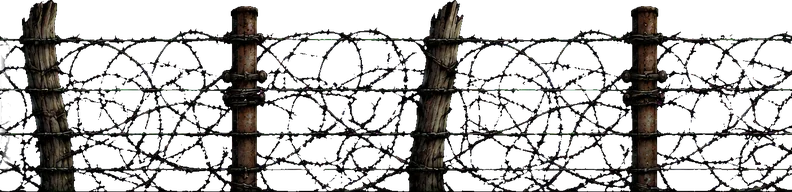
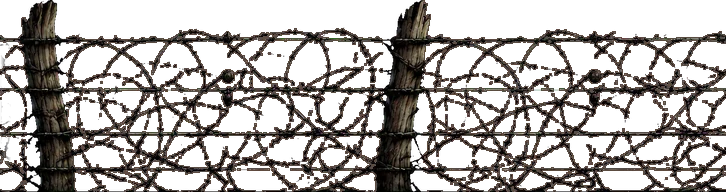
Gelände: Zickzack-Gräben mit Brustwehr zur Feindseite, Draht mit weniger Pfählen, Karte heller; Panzersperren und großer Trichter

diff --git a/entwurf/probe/gelaende_bau.js b/entwurf/probe/gelaende_bau.js
@@ -16,12 +16,13 @@ const load = src => new Promise(r => { const i = new Image(); i.onload = () => r
 const SQ3 = Math.sqrt(3);
 const LISTE = {
   tex: ['schlamm', 'gras', 'waldboden', 'truemmer', 'sumpf', 'wasser', 'kopfstein'].map(n => 'boden_' + n),
-  flach: [1, 2, 3, 4, 5, 6, 7, 8].map(k => 'flach_details_' + k),
+  flach: [...[1, 2, 3, 4, 5, 6, 7, 8].map(k => 'flach_details_' + k), 'trichter_gross_1'],
   wand: ['graben_sohle', 'graben_kante_vorn', 'graben_kante_hinten', 'ruine_hinten', 'ruine_vorn', 'draht', 'barrikade', 'wald_unterholz'],
   stand: [...[1, 2, 3, 4].map(k => 'ruine_ecken_' + k), 'bunker_1', 'bunker_2',
     ...['wald_staemme', 'wald_staemme_b'].flatMap(b => [1, 2, 3, 4].map(k => `${b}_${k}`)),
     ...['stuempfe', 'stuempfe_b', 'stuempfe_c'].flatMap(b => [1, 2, 3, 4].map(k => `${b}_${k}`)),
-    ...['truemmer', 'truemmer_b', 'truemmer_c', 'truemmer_d'].flatMap(b => [1, 2, 3, 4].map(k => `${b}_${k}`))],
+    ...['truemmer', 'truemmer_b', 'truemmer_c', 'truemmer_d'].flatMap(b => [1, 2, 3, 4].map(k => `${b}_${k}`)),
+    ...[1, 2, 3, 4].map(k => 'panzersperren_' + k), 'panzersperren_b_4'],   // panzersperren_b_1–3 sind gleich wie panzersperren_1–3
 };
 
 async function bauen(cfg) {
@@ -31,7 +32,7 @@ async function bauen(cfg) {
   await Promise.all([...LISTE.tex, ...LISTE.flach, ...LISTE.wand, ...LISTE.stand].map(async n => IM[n] = await load(`gelaende/g_${n}.webp`)));
   const FIG = {}; for (const s of ['konkordat', 'aschenwacht']) FIG[s] = await Promise.all([1, 2, 3, 4].map(i => load(`gelaende/fig_${s}_soldat_${i}.webp`)));
   const pool = pre => LISTE.stand.filter(n => n.startsWith(pre)).map(n => IM[n]);
-  const STAEMME = pool('wald_staemme'), STUEMPFE = pool('stuempfe'), TRUEMMER = pool('truemmer'), BUNKER = [IM.bunker_1, IM.bunker_2];
+  const SPERREN = pool('panzersperren'), STAEMME = pool('wald_staemme'), STUEMPFE = pool('stuempfe'), TRUEMMER = pool('truemmer'), BUNKER = [IM.bunker_1, IM.bunker_2];
 
   // ---------- Welt ----------
   const R = cfg.R || 120, SH = 0.8 * R, COLS = cfg.cols, ROWS = cfg.rows, MX = R * 1.4, TOP = R * 2.4, MB = R * 1.2;   // Ränder: Gelände läuft über die Karte hinaus
@@ -78,7 +79,7 @@ async function bauen(cfg) {
     const gr = w.createRadialGradient(x, y, 0, x, y, rr); gr.addColorStop(0, d ? 'rgba(10,7,5,0.2)' : 'rgba(150,130,100,0.08)'); gr.addColorStop(1, 'rgba(0,0,0,0)'); w.fillStyle = gr; w.fillRect(x - rr, y - rr, rr * 2, rr * 2); }
 
   // Boden insgesamt aufhellen: die gelieferten Texturen sind sehr dunkel (Helligkeit 0,08–0,17), Figuren sollen sich abheben (STYLE: Figuren eine Stufe heller als der Boden)
-  l.globalCompositeOperation = 'source-over'; l.clearRect(0, 0, WW, WH); l.filter = `brightness(${cfg.hell || 1.5}) saturate(0.95)`; l.drawImage(WCV, 0, 0); l.filter = 'none';
+  l.globalCompositeOperation = 'source-over'; l.clearRect(0, 0, WW, WH); l.filter = `brightness(${cfg.hell || 1.7}) contrast(${cfg.kontrast || 1.2}) saturate(0.95)`; l.drawImage(WCV, 0, 0); l.filter = 'none';
   w.clearRect(0, 0, WW, WH); w.drawImage(LY, 0, 0);
 
   // ---------- Linienzüge (Gräben, Straßen, Kanal) aus Feldern ----------
@@ -112,7 +113,7 @@ async function bauen(cfg) {
 
   // Straßen (Kopfstein) und Kanal (Wasser mit dunkler Uferkante)
   const ROADS = ketten((c, r) => flags(c, r).road && terr(c, r) !== 'canal').filter(ch => ch.length > 1).map(ch => chaikin(verlaengern(ch).pts, 2));
-  if (ROADS.length) { w.save(); w.filter = `blur(${R * 0.06}px)`; w.strokeStyle = 'rgba(30,22,15,0.5)'; strokeLines(w, ROADS, R * 0.78); w.restore(); schicht('boden_kopfstein', ctx => strokeLines(ctx, ROADS, R * 0.62), 0.05, 1, 7, (cfg.hell || 1.5) * 1.1); w.save(); w.globalCompositeOperation = 'soft-light'; w.filter = `blur(${R * 0.05}px)`; w.strokeStyle = 'rgba(255,240,210,0.35)'; strokeLines(w, ROADS, R * 0.5); w.restore(); }
+  if (ROADS.length) { w.save(); w.filter = `blur(${R * 0.06}px)`; w.strokeStyle = 'rgba(30,22,15,0.5)'; strokeLines(w, ROADS, R * 0.78); w.restore(); schicht('boden_kopfstein', ctx => strokeLines(ctx, ROADS, R * 0.62), 0.05, 1, 7, (cfg.hell || 1.7) * 1.05); w.save(); w.globalCompositeOperation = 'soft-light'; w.filter = `blur(${R * 0.05}px)`; w.strokeStyle = 'rgba(255,240,210,0.35)'; strokeLines(w, ROADS, R * 0.5); w.restore(); }
   const RIVERS = ketten((c, r) => flags(c, r).river || ['canal', 'bridge', 'furt'].includes(terr(c, r))).filter(ch => ch.length > 1).map(ch => chaikin(verlaengern(ch).pts, 2));
   if (RIVERS.length) {
     w.save(); w.filter = `blur(${R * 0.08}px)`; w.strokeStyle = 'rgba(28,21,14,0.95)'; strokeLines(w, RIVERS, R * 1.55); w.restore();
@@ -128,7 +129,7 @@ async function bauen(cfg) {
   const jit = (c, r, k, s) => { const [x, y] = hexC(c, r); return [x + (hrnd(c, r, k) - 0.5) * R * s, y + (hrnd(c, r, k + 1) - 0.5) * R * s * 0.9]; };
   for (let c = 0; c < COLS; c++) for (let r = 0; r < ROWS; r++) {
     const t = terr(c, r), q = hrnd(c, r, 9);
-    if (t === 'crater') { if (q < 0.55) flach(F(2), ...jit(c, r, 1, 0.3), 1.15 + q * 0.3, q * 20); else { flach(F(1), ...jit(c, r, 1, 0.9), 0.6, q * 9); flach(F(1), ...jit(c, r, 3, 0.9), 0.55, q * 13); } }
+    if (t === 'crater') { if (q < 0.55) flach(q < 0.28 ? IM.trichter_gross_1 : F(2), ...jit(c, r, 1, 0.3), 1.15 + q * 0.3, q * 20); else { flach(F(1), ...jit(c, r, 1, 0.9), 0.6, q * 9); flach(F(1), ...jit(c, r, 3, 0.9), 0.55, q * 13); } }
     else if (t === 'mud') { flach(F(q < 0.5 ? 3 : 4), ...jit(c, r, 1, 0.8), 0.7 + q * 0.4, q * 30); if (q > 0.3) flach(F(8), ...jit(c, r, 3, 0.6), 0.9, q * 17, 0.85); }
     else if (t === 'open' || t === 'grass') { if (q < 0.18) flach(F(1), ...jit(c, r, 1, 1), 0.55, q * 40); else if (q < 0.28) flach(F(8), ...jit(c, r, 1, 0.8), 0.9, q * 40, 0.8); else if (q < 0.34) flach(F(5), ...jit(c, r, 1, 0.8), 0.6, q * 40); else if (q < 0.42) flach(F(3), ...jit(c, r, 1, 0.9), 0.5, q * 40); }
     else if (t === 'village' || t === 'rubble') { flach(F(7), ...jit(c, r, 1, 0.6), 0.9, q * 30, 0.9); }
@@ -160,7 +161,7 @@ async function bauen(cfg) {
   const DRAW = [], SHADOW = [], UNITS = [];
   const hides = (x, y) => UNITS.some(([hx, hy]) => hy < y - R * 0.2 && y - hy < R * 1.95 && Math.abs(hx - x) < R * 1.0);
   function wall(im, A, B, hW, o = {}) {   // Wandstück: Bild steht über der Bodenlinie A→B, entlang der Linie gekachelt
-    const len = Math.hypot(B[0] - A[0], B[1] - A[1]), iwW = hW * im.width / im.height, n = Math.max(1, Math.ceil(len / (R * 0.25)));
+    const len = Math.hypot(B[0] - A[0], B[1] - A[1]), iwW = hW * im.width / im.height * (o.stretch || 1), n = Math.max(1, Math.ceil(len / (R * 0.25)));
     let u = o.u0 || 0;
     for (let i = 0; i < n; i++) {
       const a = [A[0] + (B[0] - A[0]) * i / n, A[1] + (B[1] - A[1]) * i / n], b = [A[0] + (B[0] - A[0]) * (i + 1) / n, A[1] + (B[1] - A[1]) * (i + 1) / n], du = len / n / iwW, u0 = u;
@@ -181,7 +182,8 @@ async function bauen(cfg) {
       const qa = [pa[0] + (pb[0] - pa[0]) * t0, pa[1] + (pb[1] - pa[1]) * t0], qb = [pa[0] + (pb[0] - pa[0]) * t1, pa[1] + (pb[1] - pa[1]) * t1], sw = (x1 - x0) * iw;
       if (sw < 0.5) continue;
       g.save(); g.setTransform((qb[0] - qa[0]) / sw, (qb[1] - qa[1]) / sw, -V[0] / ih, -V[1] / ih, qa[0] + V[0], qa[1] + V[1] + (o.sink || 0) * sc);
-      if (o.filter) g.filter = o.filter; if (hW > 0.6 * SH && hides((a[0] + b[0]) / 2, (a[1] + b[1]) / 2)) g.globalAlpha = 0.45;
+      const flt = typeof o.filter === 'function' ? o.filter(hS) : o.filter; if (flt) g.filter = flt; if (o.alpha) g.globalAlpha = typeof o.alpha === 'function' ? o.alpha(hS) : o.alpha;
+      if (hW > 0.6 * SH && hides((a[0] + b[0]) / 2, (a[1] + b[1]) / 2)) g.globalAlpha = 0.45;
       g.drawImage(im, x0 * iw, 0, Math.min(sw + 0.6, iw - x0 * iw), ih, 0, 0, Math.min(sw + 0.6, iw - x0 * iw), ih); g.restore();
     }
     if (cfg.punkte) { g.save(); g.strokeStyle = '#E2B04A'; g.lineWidth = 2 * U; g.beginPath(); g.moveTo(pa[0], pa[1]); g.lineTo(pb[0], pb[1]); g.stroke(); g.restore(); }
@@ -201,9 +203,23 @@ async function bauen(cfg) {
   const flipR = (c, r, k) => hrnd(c, r, k) < 0.5;
 
   // Graben
+  // Zickzack wie echte Gräben (Schulterwehren): der Zug wird alle ZZ_STEP neu gesetzt und abwechselnd um ±ZZ_A seitlich versetzt.
+  // Nur Darstellung innerhalb der Grabenfelder – die Regeln (welches Feld Graben ist) bleiben gleich.
+  const ZZ_A = R * 0.3, ZZ_STEP = R * 0.866;
+  function zickzack(pts) {
+    const segL = []; let L = 0; for (let i = 0; i < pts.length - 1; i++) { const d = Math.hypot(pts[i + 1][0] - pts[i][0], pts[i + 1][1] - pts[i][1]); segL.push(d); L += d; }
+    const n = Math.max(2, Math.round(L / ZZ_STEP)), out = [];
+    for (let j = 0; j <= n; j++) {
+      let s = L * j / n, i = 0; while (i < segL.length - 1 && s > segL[i]) { s -= segL[i]; i++; }
+      const a = pts[i], b = pts[i + 1], t = segL[i] ? s / segL[i] : 0, dx = (b[0] - a[0]) / (segL[i] || 1), dy = (b[1] - a[1]) / (segL[i] || 1);
+      const o = j === 0 || j === n ? 0 : (j % 2 ? ZZ_A : -ZZ_A);
+      out.push([a[0] + (b[0] - a[0]) * t - dy * o, a[1] + (b[1] - a[1]) * t + dx * o]);
+    }
+    return out;
+  }
   const TRENCH = cfg.trench ? cfg.trench.map(z => ({ pts: z.map(p => atW(...p)), ends: [false, false] }))
-    : ketten((c, r) => terr(c, r) === 'trench').filter(ch => ch.length > 1).map(verlaengern);
-  const TR = TRENCH.map(z => chaikin(z.pts));
+    : ketten((c, r) => terr(c, r) === 'trench').filter(ch => ch.length > 1).map(ch => { const v = verlaengern(ch); return { ...v, ch, pts: cfg.zickzack ? zickzack(v.pts) : v.pts }; });
+  const TR = TRENCH.map(z => chaikin(z.pts, cfg.zickzack && z.ch ? 1 : 3));
   if (TR.length) {
     const TW = 1.0 * R, SOHLE = IM.graben_sohle;
     w.save(); w.filter = `blur(${R * 0.08}px)`; w.strokeStyle = 'rgba(70,56,40,0.7)'; strokeLines(w, TR, R * 1.15); w.restore();
@@ -235,13 +251,21 @@ async function bauen(cfg) {
     TR.forEach((pts, ti) => {
       for (const side of [-1, 1]) {
         const off = pts.map((p, i) => { const a = pts[Math.max(0, i - 1)], b = pts[Math.min(pts.length - 1, i + 1)], dx = b[0] - a[0], dy = b[1] - a[1], ln = Math.hypot(dx, dy) || 1; return [p[0] - dy / ln * side * R * 0.38, p[1] + dx / ln * side * R * 0.38]; });
-        const uu = { v: hrnd(ti, side, 4), h: hrnd(ti, side, 5) };
+        const uu = { v: hrnd(ti, side, 4), h: hrnd(ti, side, 5), p: hrnd(ti, side, 6) };
+        // Feindseite des Grabens (cfg.grabenSeite: wem gehört der Graben): Konkordat schaut nach Osten (+x), Aschenwacht nach Westen
+        const own = cfg.grabenSeite && TRENCH[ti].ch ? cfg.grabenSeite(...TRENCH[ti].ch[0]) : null, ex = own === 'A' ? 1 : own === 'D' ? -1 : 0;
         for (let i = 0; i < off.length - 1; i++) {
           const mx = (off[i][0] + off[i + 1][0]) / 2, my = (off[i][1] + off[i + 1][1]) / 2, cx = (pts[i][0] + pts[i + 1][0]) / 2, cy = (pts[i][1] + pts[i + 1][1]) / 2;
           const dl = Math.hypot(cx - mx, cy - my) || 1, inY = (cy - my) / dl, back = inY > -0.5, key = back ? 'h' : 'v';
           const sd = Math.max(0, 1 - Math.abs(inY) / 0.85), lean = sd > 0.05 ? { nx: (mx - cx) / dl, ny: (my - cy) / dl, L: 0.9 * sd, U: 1 - 0.35 * sd } : null;
           uu[key] = wall(back ? IM.graben_kante_hinten : IM.graben_kante_vorn, off[i], off[i + 1], (back ? 0.28 : 0.32) * SH, { u0: uu[key], shade: 0.4, shadeW: 0.1, lean,
             skip: (x, y) => TRIM[ti].some(q => q.length > 1 && distTo([x, y], q) < R * 0.42) });
+          // Stücke, die in die Tiefe laufen: auf der Feindseite zusätzlich eine aufrechte Brustwehr aus Sandsäcken, etwas weiter außen
+          if (ex && sd > 0.3 && Math.sign(mx - cx) === ex) {
+            const nx = (mx - cx) / dl, ny = (my - cy) / dl, o2 = R * 0.24, A2 = [off[i][0] + nx * o2, off[i][1] + ny * o2], B2 = [off[i + 1][0] + nx * o2, off[i + 1][1] + ny * o2];
+            uu.p = wall(IM.graben_kante_vorn, A2, B2, 0.4 * SH, { u0: uu.p, shade: 0.45, shadeW: 0.14, bias: R * 0.02,
+              skip: (x, y) => TRIM[ti].some(q => q.length > 1 && distTo([x, y], q) < R * 0.55) });
+          }
         }
       }
     });
@@ -272,11 +296,14 @@ async function bauen(cfg) {
       for (const [e, k] of [[4, 0.85], [5, 0.85], [q(60) < 0.5 ? 3 : 0, 0.8]]) stand(STAEMME[Math.floor(q(e + 61) * STAEMME.length)], ...corner(c, r, e, k), 1.8 * SH * (0.8 + q(e + 70) * 0.2), { flip: flipR(c, r, e + 80), shadeK: 0.3 });
       wall(IM.wald_unterholz, corner(c, r, 2, 0.88), corner(c, r, 1, 0.88), 0.3 * SH, { u0: q(90) * 4, shade: 0.35 });
       if (q(91) < 0.6) stand(STUEMPFE[Math.floor(q(92) * STUEMPFE.length)], ...corner(c, r, 3, 0.45), 0.6 * SH, { flip: flipR(c, r, 93) });
+    } else if (t === 'sperre') {   // Panzersperren: zwei Teile je Feld, quer verteilt
+      for (const [e, kk, k] of [[4, 0.5, 1], [1, 0.45, 2]]) stand(SPERREN[Math.floor(q(k) * SPERREN.length)], ...corner(c, r, e, kk), 0.8 * SH * (0.85 + q(k + 4) * 0.25), { flip: flipR(c, r, k + 8) });
     } else if (t === 'bunker') {
       stand(BUNKER[q(1) < 0.5 ? 0 : 1], hx, hy + R * 0.25, 1.15 * SH, { flip: flipR(c, r, 2), shadeK: 0.45 });
     } else if (t === 'wire') {   // Drahtgürtel: zwei Stücke quer zur Blickrichtung, leicht schräg, hinten und vorn im Feld
       for (const [k, dy] of [[1, -0.36], [2, 0.28]]) { const ang = (q(k) - 0.5) * 0.6, L = R * (0.75 + q(k + 5) * 0.2), cx = hx + (q(k + 9) - 0.5) * R * 0.3, cy = hy + dy * R;
-        wall(IM.draht, [cx - Math.cos(ang) * L, cy - Math.sin(ang) * L], [cx + Math.cos(ang) * L, cy + Math.sin(ang) * L], 0.6 * SH, { u0: q(k + 3) * 3, shade: 0.25 }); }
+        wall(IM.draht, [cx - Math.cos(ang) * L, cy - Math.sin(ang) * L], [cx + Math.cos(ang) * L, cy + Math.sin(ang) * L], 0.6 * SH, { u0: q(k + 3) * 3, shade: 0.2,
+          filter: hS => hS > 45 * U ? `brightness(1.3) drop-shadow(0 0 ${Math.max(1, Math.round(1.2 * U))}px rgba(215,195,160,0.7))` : 'brightness(1.7) contrast(1.1)', alpha: hS => hS > 45 * U ? 1 : 0.85 }); }   // heller Saum nur von nah; von weit Rostfarbe aufgehellt   // Streifen mit ausgedünnten Pfählen (gelaende_cut.py), Draht aufgehellt
     } else if (t === 'barrikade') {
       const ang = (q(1) - 0.5) * 0.5; wall(IM.barrikade, [hx - Math.cos(ang) * R * 0.75, hy - Math.sin(ang) * R * 0.75 - R * 0.15], [hx + Math.cos(ang) * R * 0.75, hy + Math.sin(ang) * R * 0.75 - R * 0.15], 0.55 * SH, { u0: q(2) * 3 });
     } else if (t === 'bridge') {   // Brücke: Bohlen quer über das Wasser

diff --git a/entwurf/probe/karte.html b/entwurf/probe/karte.html
@@ -31,7 +31,7 @@ const Q = new URLSearchParams(location.search), id = Q.get('karte') || 'grauwall
   await GBau.bauen({
     canvas: document.getElementById('cv'), cols: K.cols, rows: K.rows,
     terr: (c, r) => K.cells[c][r][0], flags: (c, r) => ({ road: !!K.cells[c][r][1], river: !!K.cells[c][r][2] }),
-    trupps: TRUPPS[id] || [],
+    trupps: TRUPPS[id] || [], zickzack: true, grabenSeite: (c, r) => c <= (K.zoneA ?? 2) ? 'A' : 'D',   // Gräben im Zickzack; Besitzer nach Aufstellungszone
     seed: +(Q.get('seed') || 1917), ganz: Q.get('ganz') === '1', zoom: +(Q.get('zoom') || 1), ziel: Q.get('ziel') ? Q.get('ziel').split(',').map(Number) : null,
     punkte: Q.get('punkte') === '1', namen: Q.get('namen') !== '0',
   });

diff --git a/entwurf/probe/gelaende.html b/entwurf/probe/gelaende.html
@@ -34,6 +34,7 @@ set('mud', [[7, 5], [5, 6]]);
 set('wire', [[8, 4], [9, 4], [10, 4]]);
 set('barrikade', [[5, 5]]);
 set('bunker', [[10, 1]]);
+set('sperre', [[6, 6], [4, 6]]);   // Panzersperren
 const TRENCH = [[[5, 3], [6, 3], [7, 3], [8, 3], [9, 3], [10, 3], [11, 3], [11.6, 3]], [[7, 3], [7, 2], [7, 1], [7, 0.4]]];   // Grabenzüge über Feldmitten (Abzweig nach hinten)
 for (const z of TRENCH) for (const [c, r] of z) if (c % 1 === 0 && r % 1 === 0) T[c + ',' + r] = 'trench';
 const load = src => new Promise(r => { const i = new Image(); i.onload = () => r(i); i.onerror = () => r(null); i.src = src; });

diff --git a/tools/gelaende_cut.py b/tools/gelaende_cut.py
@@ -55,6 +55,12 @@ TEILE = {
     'truemmer_d':          ('bogen', ('gemeinsam', 0.6)),
     # Trichter klein/groß, Pfütze, lange Pfütze, Bretter, Laufrost, Trümmerstreu, Spuren
     'flach_details':       ('flach', [0.65, 1.25, 0.6, 1.0, 0.6, 0.6, 1.0, 1.0]),
+    'panzersperren':       ('bogen', ('gemeinsam', 0.75)),    # Tschechenigel, Höckerlinie, Igel mit Draht, Pfahlreihe
+    'panzersperren_b':     ('bogen', ('gemeinsam', 0.95)),    # wie oben, Pfähle länger
+    'trichter_gross':      ('flach', [1.5]),
+    # Schwarzer Hintergrund (trichter_schwarz_a/b/c, details_schwarz): Versuch 2026-11-16 nicht sauber – dunkle Trichter, Wasser und
+    # Schatten gehen in den Hintergrund über und werden löchrig. Nicht verwenden; bei Bedarf neu mit Magenta-Hintergrund erzeugen.
+    # Zum erneuten Ausprobieren: python tools/gelaende_cut.py --schwarz trichter_schwarz_a (Ergebnis nur ansehen, nicht einbauen).
     'boden_schlamm':       ('textur', None),
     'boden_gras':          ('textur', None),
     'boden_waldboden':     ('textur', None),
@@ -68,6 +74,17 @@ TEX_PX, TEX_PROBE = 1024, 768
 
 def freistellen(path):
     a = np.asarray(Image.open(path).convert('RGB'))
+    rand_px = np.concatenate([a[0], a[-1], a[:, 0], a[:, -1]]).astype(float)
+    if np.median(rand_px, axis=0).max() < 30:   # schwarzer Hintergrund: Deckung nach Helligkeit, Farben nicht entmischen (dunkler Saum = Schatten)
+        lum = a.astype(float).mean(axis=2)
+        al = np.clip((lum - 14) / 26, 0, 1)
+        lab, _ = ndimage.label(al < 0.5)
+        rand = set(np.unique(np.concatenate([lab[0], lab[-1], lab[:, 0], lab[:, -1]]))) - {0}
+        innen = (lab > 0) & ~np.isin(lab, list(rand))
+        al[innen] = 1   # eingeschlossenes Dunkel (Wasser im Trichter) bleibt deckend
+        al = ndimage.gaussian_filter(al, 1.0)
+        print('  Hintergrund schwarz (Versuch)')
+        return np.dstack([a.astype(float), al * 255])
     q, bg = key_any(a)
     if bg.min() > 200:   # weißer Hintergrund: helle Putzflächen im Bild nicht mit ausblenden – nur was mit dem Rand zusammenhängt
         lab, _ = ndimage.label(q[..., 3] < 128)
@@ -151,6 +168,31 @@ def streifen(name, art, sh):
     speichern(q, name, PX_SH * sh if art == 'wand' else PX_R)
 
 
+def pfaehle_ausduennen(name, jede=2):
+    """Drahtstreifen: jeden zweiten Pfahl herausschneiden (Wunsch 2026-11-16: weniger Pfähle, mehr Draht dazwischen).
+    Pfähle = Spalten, die über 60 % der Höhe gedeckt sind; geschnitten wird mit 4 px Rand, die Drahtwirbel stoßen dann aneinander."""
+    im = np.asarray(Image.open(OUT / f'{name}.png')).copy()
+    cov = (im[..., 3] > 128).mean(axis=0); idx = np.where(cov > 0.6)[0]
+    grp = []
+    for i in idx:
+        if grp and i - grp[-1][1] <= 3: grp[-1][1] = i
+        else: grp.append([i, i])
+    weg = np.zeros(im.shape[1], bool)
+    for k, (a, b) in enumerate(grp):
+        if k % jede: weg[max(0, a - 4):b + 5] = True
+    q = im[:, ~weg].astype(np.float64)
+    # Drahtlinien verdicken (im Spiel wird der Streifen auf ca. ein Drittel verkleinert, feine Linien verschwinden sonst):
+    # deckende Drahtpixel um 1 px ausbreiten, neu gedeckte Pixel rostbraun; Pfähle bleiben unverändert
+    pf = np.zeros(q.shape[1], bool); cov2 = (q[..., 3] > 128).mean(axis=0); pf[ndimage.binary_dilation(cov2 > 0.6, iterations=5)] = True
+    draht = q[..., 3] > 150
+    neu = ndimage.binary_dilation(draht, structure=np.ones((3, 3), bool)) & ~draht
+    neu[:, pf] = False
+    q[neu, 3] = np.maximum(q[neu, 3], 220); q[neu, :3] = [70, 46, 32]
+    q = np.clip(q, 0, 255).astype(np.uint8)
+    print(f'  {len(grp)} Pfähle, {sum(1 for k in range(len(grp)) if k % jede)} entfernt → Breite {q.shape[1]} px')
+    out = Image.fromarray(q, 'RGBA'); out.save(OUT / f'{name}.png'); out.save(PROBE / f'g_{name}.webp', quality=88, method=6)
+
+
 def textur(name):
     a = np.asarray(Image.open(SRC / f'{name}.png').convert('RGB')).astype(np.float64)
     h, w = a.shape[:2]
@@ -226,7 +268,10 @@ def bogen(name, hoehen):
 
 
 if __name__ == '__main__':
-    for name in sys.argv[1:] or TEILE:
+    args = [x for x in sys.argv[1:] if x != '--schwarz']
+    if '--schwarz' in sys.argv:
+        for name in args: TEILE[name] = ('flach', [0.9] * 8)
+    for name in args or TEILE:
         art, h = TEILE[name]
         print(name)
         if art == 'bogen':
@@ -239,3 +284,4 @@ if __name__ == '__main__':
             textur(name)
         else:
             streifen(name, art, h)
+            if name == 'draht': pfaehle_ausduennen(name)

diff --git a/STYLE.md b/STYLE.md
@@ -186,7 +186,7 @@ Für alle Bilder: reiner Magenta-Hintergrund (#FF00FF), PNG, Tuschkontur und Far
 - **Große Gebäude über mehrere Felder** (Kirche, Fabrik): noch offen, siehe IDEEN.md.
 - **Zusammensetzen je Geländeart** (umgesetzt in `entwurf/probe/gelaende_bau.js`, gilt für Probe und Karten-Testseite `entwurf/probe/karte.html`):
   - Boden: Schlamm als Grund. Darüber weiche Schichten: Gras auf offenen Feldern nach großflächigem Rauschen (nicht feldweise), Waldboden (Totholz, Wald), Trümmer (Dorf, Trümmerfeld, Barrikade), Sumpf (Sumpf, Schlamm). Straßen als Kopfstein-Band, Kanal als Wasser-Band mit dunkler Uferkante.
-  - Die gelieferten Texturen sind sehr dunkel (Helligkeit 0,08–0,17); der Boden wird im Ganzen um ×1,5 aufgehellt, Straßen etwas mehr.
+  - Die gelieferten Texturen sind sehr dunkel (Helligkeit 0,08–0,17); der Boden wird im Ganzen aufgehellt (siehe Helligkeit unten), Straßen etwas mehr.
   - Flache Details nach Feld: Trichterfeld (ein großer oder zwei kleine Trichter), Schlamm (Pfützen, Spuren), offen (gelegentlich kleiner Trichter, Spuren, Bretter, Pfütze), Dorf/Trümmer (Trümmerstreu).
   - Totholz: drei Stümpfe verteilt, oft ein schlanker Stamm hinten.
   - Wald: drei schlanke Stämme an den hinteren Ecken, Unterholz vorn.
@@ -194,4 +194,10 @@ Für alle Bilder: reiner Magenta-Hintergrund (#FF00FF), PNG, Tuschkontur und Far
   - Draht: zwei Stücke je Feld, quer zur Blickrichtung, leicht schräg, hinten und vorn.
   - Bunker: heil oder beschädigt. Brücke: Laufrost-Bohlen quer über das Wasser.
   - Gräben werden aus den Grabenfeldern zu Zügen verbunden; Züge am Kartenrand laufen bis zur Kante weiter (ohne Erdwall).
+  - **Gräben im Zickzack** (Schulterwehren, seit 2026-11-16, Schalter `zickzack`): Der Zug wird alle 0,87 R neu gesetzt und abwechselnd um ±0,3 R seitlich versetzt. Das ist nur Darstellung innerhalb der Grabenfelder; welche Felder Graben sind, bestimmen weiter die Kartendaten (Regeln unverändert).
+  - **Brustwehr zur Feindseite:** Bei Stücken, die in die Tiefe laufen, steht auf der Feindseite zusätzlich eine aufrechte Sandsack-Brustwehr (Kante vorn, 0,4 SH), 0,24 R weiter außen. Feindseite: Konkordat nach Osten, Aschenwacht nach Westen; Besitzer nach Aufstellungszone.
+  - **Draht:** jeder zweite Pfahl ist aus dem Streifen herausgeschnitten, die Drahtlinien um 1 px verdickt (rostbraun). Von nah bekommt der Draht einen hellen Saum, von weit wird er aufgehellt.
+  - **Panzersperren** (Feldart `sperre`): zwei Teile je Feld. Großer Trichter: zweite Variante auf Trichterfeldern.
+  - **Helligkeit:** Boden ×1,7, Kontrast ×1,2, damit sich die Trupps abheben.
+  - **Bilder mit schwarzem Hintergrund** lassen sich nicht sauber freistellen (dunkle Trichter und Wasser werden löchrig). Für Gelände immer Magenta verwenden.
   - **Abwechslung:** Jedes Feld wählt Variante, Spiegelung, Größe (±15 %) und Streifen-Anfang aus seinem eigenen Zufallswert; dieselbe Karte sieht immer gleich aus, `seed` ändert die Mischung.
